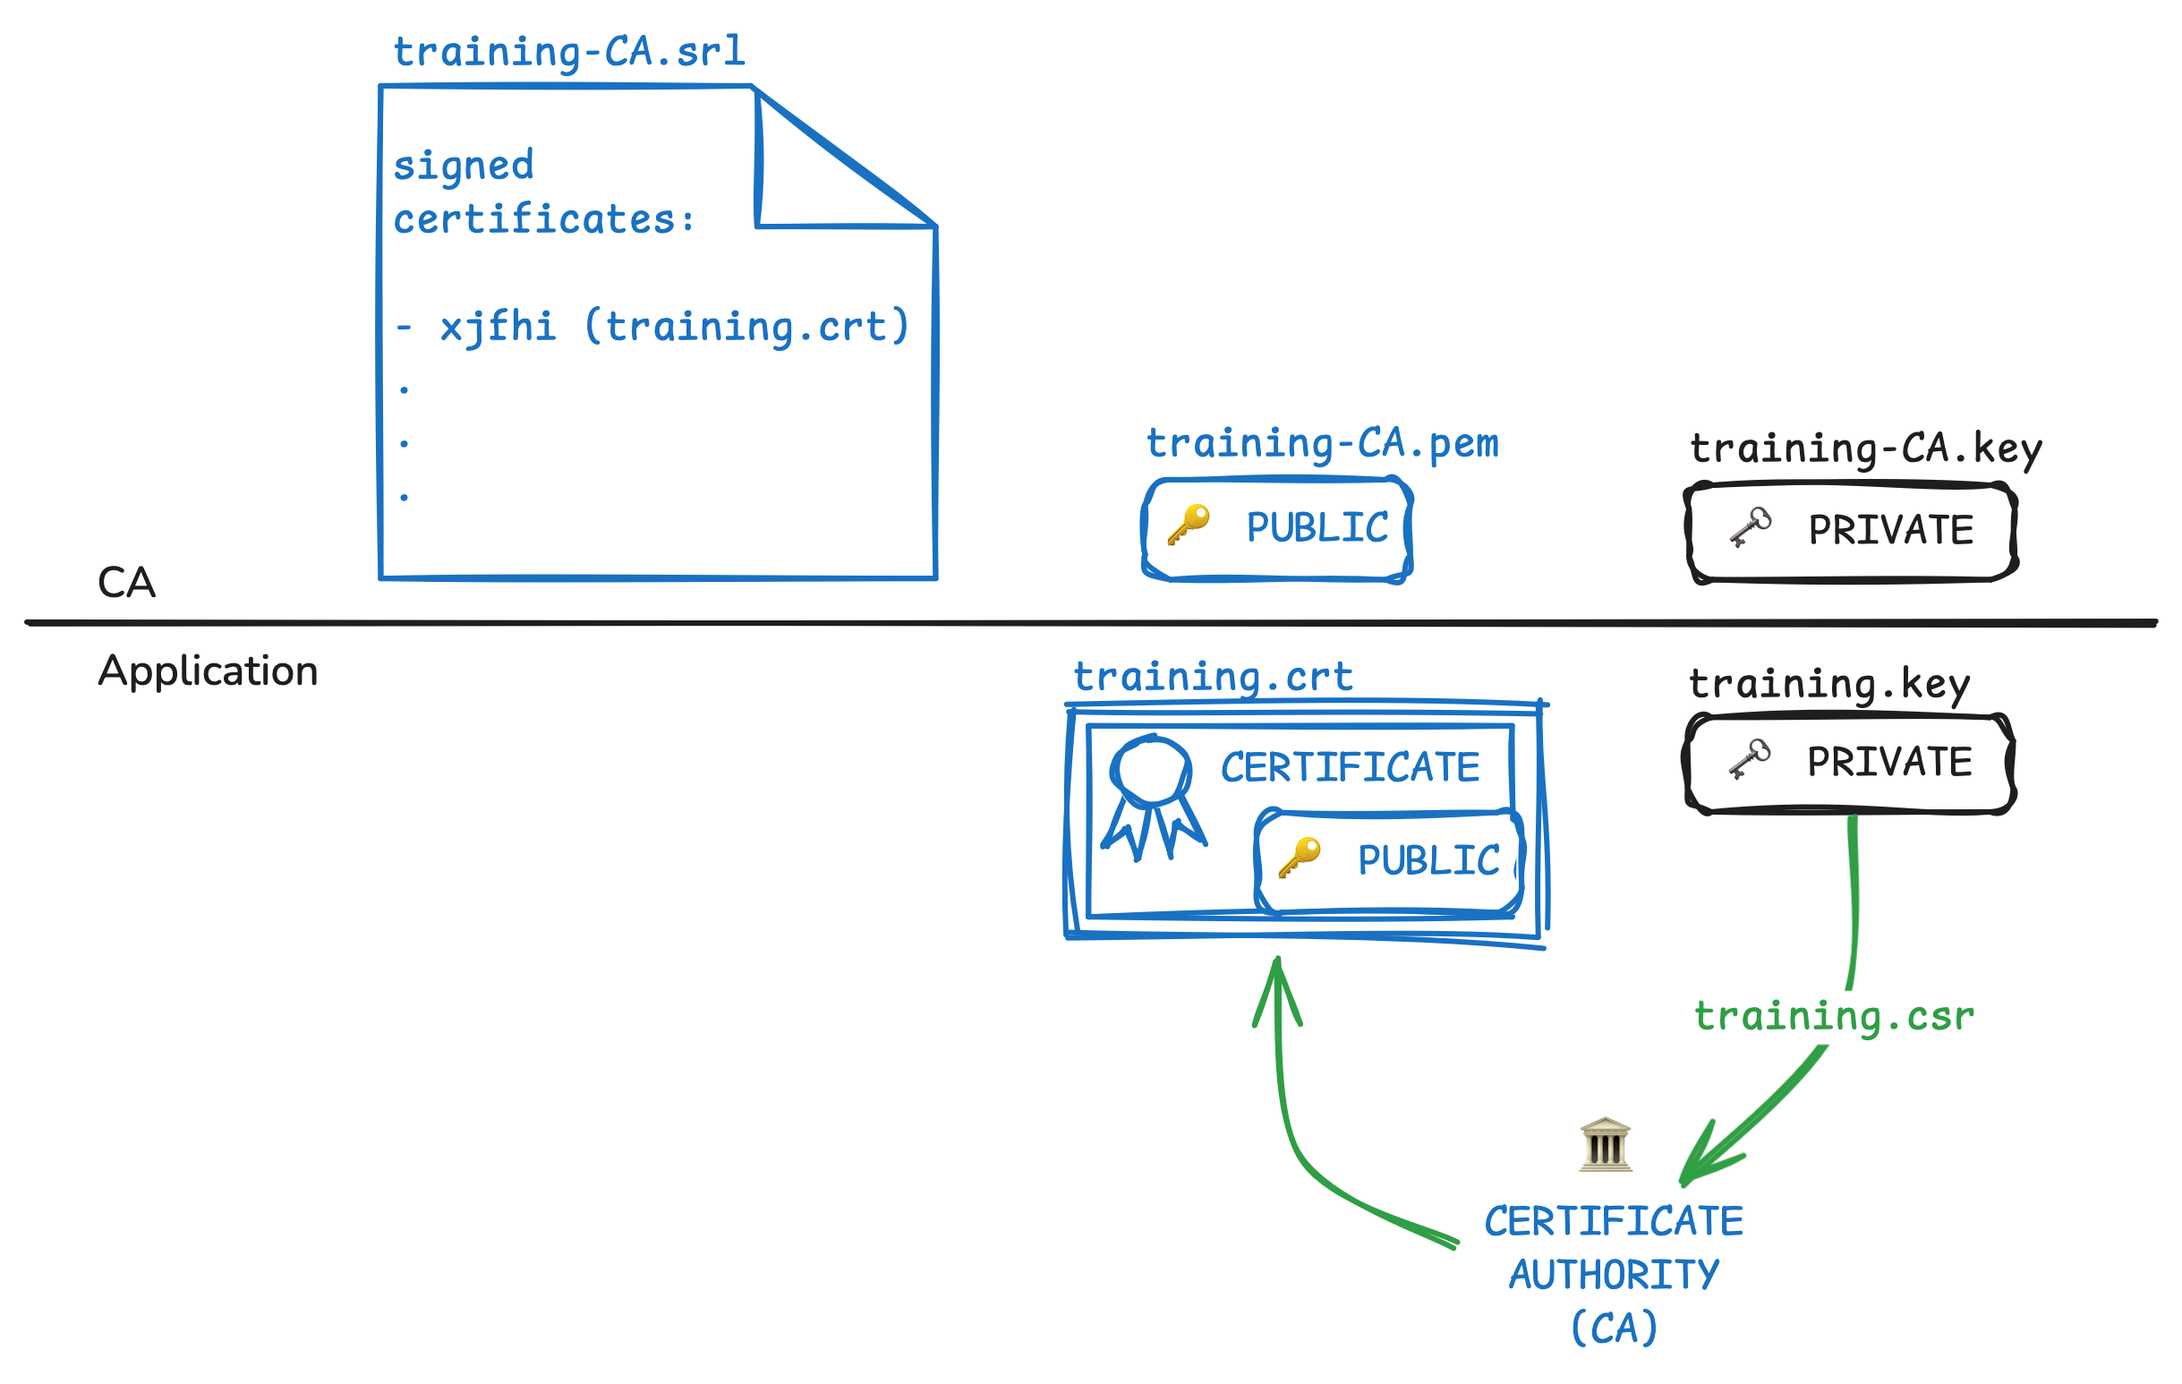
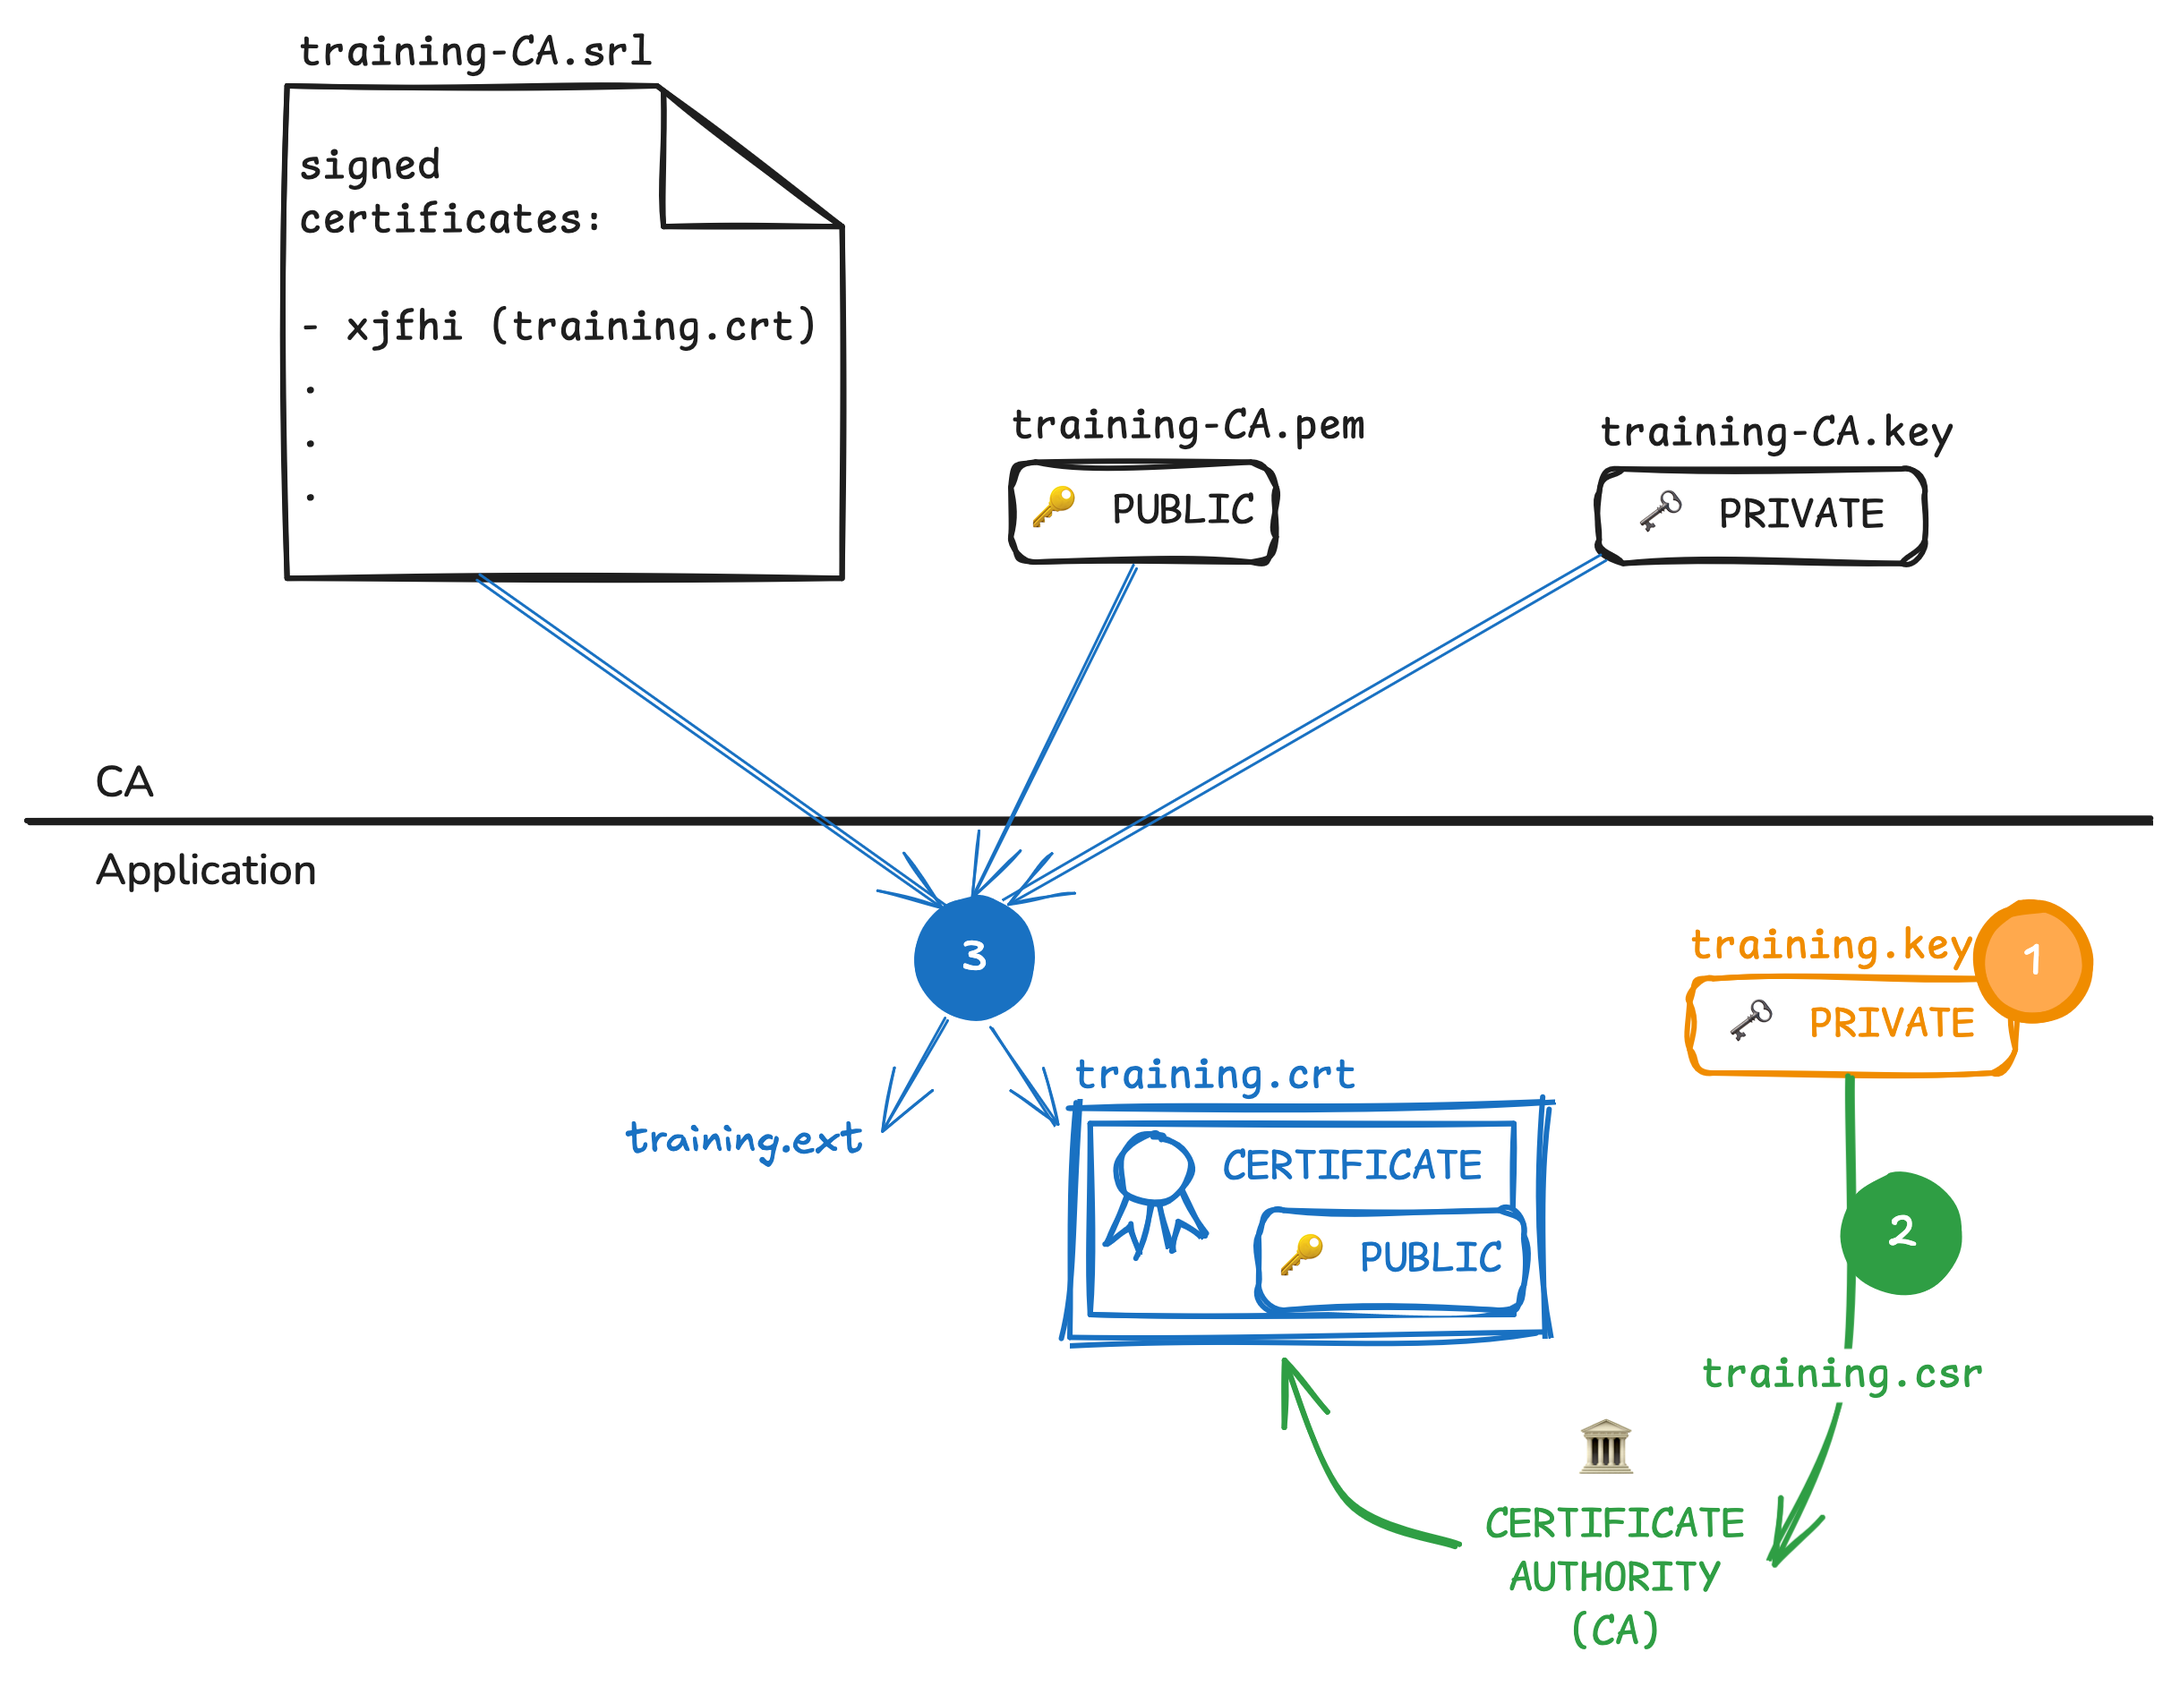
ch4

Changed region(s): [[0.0, 0.0, 0.9988, 0.9935], [0.6867, 0.3415, 0.7179, 0.3726]]

diff --git a/docs/cloud/openshift/do280/04_ext_passthrough.md b/docs/cloud/openshift/do280/04_ext_passthrough.md
@@ -1,3 +1,4 @@
+<img src="../imgs/ocp-passthrough.png" width="600" />
 
 <table>
     <tr>
@@ -75,7 +76,7 @@ Private Key for the Application that has the host `todo-https.apps.ocp4.example.
 Signed public Certificate for the Application
 
 ### `training.csr`
-is a Certificate Signing Request (CSR), an essential part of the process for obtaining a signed certificate. It contains:
+is a **Certificate Signing Request (CSR)**, an essential part of the process for obtaining a signed certificate. It contains:
 
 1. Information about the **entity** that is requesting the certificate, such as:
 
@@ -90,25 +91,27 @@ is a Certificate Signing Request (CSR), an essential part of the process for obt
 The `training-CA.srl` file is used by **OpenSSL** (or other certificate tools) to keep track of the serial numbers of certificates issued by a **Certificate Authority (CA)**. It ensures that every certificate signed by the CA has a unique serial number, which is required by the X.509 standard for certificates.
 
 
-!!! warning "*.pem VS *.crt"
+!!! warning "`*.pem` VS `*.crt`"
+    `*.pem` > `*.crt`
+    
     `*.pem` could contain more info types, while `*.crt` only contains certificate.
     
     ||PEM (.pem)|CRT (.crt)|
     |:-|:-|:-|
     |**Stands for**|Privacy-Enhanced Mail|Certificate|
     |**Format**|Base64-encoded text with header/footer|Can be in PEM (Base64) or DER (Binary)|
-    |**Content**|Typically contains only a public certificate.|Can contain certificates, private keys, certificate chains, or other cryptographic data.|
+    |**Content**|Can contain certificates, private keys, certificate chains, or other cryptographic data.|Typically contains only a single certificate.|
     |**Common Headers**|`-----BEGIN CERTIFICATE-----` (for a public certificate)<br/>`-----BEGIN PRIVATE KEY-----` (for a private key)<br/>`-----BEGIN CERTIFICATE REQUEST-----` (for a CSR)|`-----BEGIN CERTIFICATE-----`|
     |**Usage**|Used in OpenSSL, Apache, and many other applications.|Used by web servers, applications, and certificate authorities.|
 
 # 1. Generate TLS certificates for the application
 
-<img src="../imgs/generate_certifcate_passthrough.png" />
-
 ```bash
-# Generate a private key `training.key`
+# (1) 
+# Generate a Private Key `training.key`
 openssl genrsa -out training.key 4096
 
+# (2)
 # Generate the certificate signing request (CSR) `training.csr`:
 # - use the generated training.key`
 # - specify the hostname: todo-https.apps.ocp4.example.com
@@ -117,13 +120,17 @@ openssl req -new \
     -subj "/C=US/ST=North Carolina/L=Raleigh/O=Red Hat/\
     CN=todo-https.apps.ocp4.example.com"
 
+# (3)
 # Generate the signed certificate `training.crt`
-# - use the request: `training.csr`
-# - use the defined password: `passphrase.txt `
-# - use the CA info:
+# 
+# INPUT:
+# - the request: `training.csr`
+# - the defined password: `passphrase.txt `
+# - the CA info:
 #       -  public key of CA: `training-CA.pem`
 #       -  private key of CA: `training-CA.key`
-# Output:
+#       -  create a training-CA.srl if NOT exist
+# OUTPUT:
 #   - a signed Certificate: `training.crt`
 #   - a list for documenting purpose: `training.ext`
 openssl x509 -req -in training.csr \
@@ -132,9 +139,40 @@ openssl x509 -req -in training.csr \
     -out training.crt -days 1825 -sha256 -extfile training.ext
 ```
 
+<img src="../imgs/generate_certifcate_passthrough.png" width="600" />
+
+!!! note "`-subj`
+    The `-subj` flag in the `openssl req -new `command specifies the **distinguished name (DN)** directly in the command line, instead of interactively entering it.
+
+!!! note "Distinguished Name(DN)"
+    The **Distinguished Name (DN)** is a unique identifier for an entity (such as a `server`, `organization`, or `individual`) in a **digital certificate**. It is used in:
+
+    - X.509 certificates
+    - Certificate Signing Requests (CSR)
+    - LDAP (Lightweight Directory Access Protocol)
+
+    ⛰ **In this case, DN is the "ID Card" for the Certificate**
+
+
+    A DN consists of multiple **Attributes**:
+    
+    |Attribute|Meaning|Example|
+    |:-|:-|:-|
+    |`C`|Country|`C=US` (United States)|
+    |`ST`|State or Province|`ST=North Carolina`|
+    |`L`|Locality (City)|`L=Raleigh`|
+    |`O`|Organization|`O=Red Hat`|
+    |`OU`|Organizational Unit|`OU=Engineering`|
+    |`CN`|Common Name (usually a domain or hostname)|`CN=todo-https.apps.ocp4.example.com`|
+    |`emailAddress`|Email Address (optional)|`emailAddress=admin@example.com`|
+
+    
+
+
+
 # 2. Generate TLS secret with Certificate and Key
 - Certificate: `training.crt`
-- Key: `training.key`
+- Private Key: `training.key`
 
 ```bash
 oc create secret tls todo-certs \

diff --git a/docs/cloud/openshift/do280/01_manifest_kustimize.md b/docs/cloud/openshift/do280/01_manifest_kustimize.md
@@ -305,13 +305,31 @@ resources:
     |`commonLabels`|Add labels to all resources and selectors.|
     |`commonAnnotations`|Add annotations to all resources and selectors.|
 
+    ```bash
+    apiVersion: kustomize.config.k8s.io/v1beta1
+    kind: Kustomization
+
+    # common attributes / cross-cutting attributes
+    namespace: first-project
+    nameSuffix: -v2
+    namePrefix: chuying-
+
+    commonLabels:
+      owner: chuying
+        app: bingo
+    commonAnnotations:
+      env: test
+      oncallPager: 800-555-1212
+
+    ```
+
 
 ### Patch
 patch 是 `overlays` 用于修改 `base` 资源的具体方式，比如 `overlays/production/patch.yaml` 文件帮助实现了 `production` overlay。
 
 The patch mechanism has several important keys: `patch`, `target` and `path`.
 
-**Way 1: `patch` and `target`**
+#### Way 1: `patch` and `target`
 
 ```yaml
 # overlays/production/patch.yaml
@@ -323,7 +341,7 @@ namespace: test-env
 patches: 
 - patch: |-
     - op: replace             # operation
-      path: /metadata/name
+      path: /metadata/name    # '/' indicates DOC ROOT, here it means deployment.metatdata.name
       value: frontend-test
   target:                     # target
     kind: Deployment
@@ -340,8 +358,42 @@ resources:                    # used "base"
 commonLabels:                 # add label to all the resources
   env: test
 ```
+!!! note "`|-`"
+    is a **block scalar indicator** that handles multi-line content.
 
-**Way 2: `path`**
+    with `|-`:
+    ```bash
+    patches:
+      - patch: |-                   
+        - op: replace
+          path: /spec/replicas
+          value: 15
+    ```
+
+    without `|-`:
+    ```bash
+    patchs:
+      - patch: "- op: replace\n  path: /spec/replicas\n  value: 15"
+    ```
+
+!!! info "`|-` vs `|`"
+    ```bash
+    example: |-
+      Line 1
+      Line 2
+    ```
+    This results in `Line 1\nLine 2` (without a trailing newline).
+
+    ```bash
+    example: |
+      Line 1
+      Line 2
+    ```
+    This results in `Line 1\nLine 2\n` (with a trailing newline).
+
+
+
+#### Way 2: `patch` and `path`
 ```yaml
 # patch.yaml 
 apiVersion: apps/v1
@@ -370,6 +422,25 @@ resources:                  # used "base"
 - ../../base
 commonLabels:               # add label to all the resources
   env: prod
+```
+
+#### Way 3
+rebuild the resouce by using the same name. Kinda like a trick
+
+```bash
+# replicas.yaml
+kind: Deployment
+metadata:
+  name: frontend
+  namespace: default
+spec:
+  replicas: 2
+```
+
+```bash
+# kustomization.yaml
+patches:
+  - replicas.yaml
 ```
 
  

diff --git a/docs/cloud/openshift/do280/04_network_security.md b/docs/cloud/openshift/do280/04_network_security.md
@@ -45,35 +45,19 @@
     - [Redhat Blog: Self-Serviced End-to-end Encryption Approaches for Applications Deployed in OpenShift](https://www.redhat.com/en/blog/self-serviced-end-to-end-encryption-approaches-for-applications-deployed-in-openshift)
 
 
-### Edge
-<img src="../imgs/tls_edge.svg" />
+### Illustration
+<img src="../imgs/OCP-PKI-and-certificates-reverse-proxy.png" width="600" />
 
-### Passthrough
-<img src="../imgs/tls_passthrough.svg" />
-
-### Re-encryption
-
-!!! note "Create route with **Edge Termination**"
-    to create an encrypted edge route with a custom TLS certificate:
-
-    ```bash
-    oc create route edge \
-        --service api-frontend \
-        --hostname api.apps.acme.com \
-        --key api.key \
-        --cert api.crt
-    ```
-
-    when `--key` and `--cert` exist,  then the **RHOCP ingress operator** provides a certificate from the **internal Certificate Authority (CA)**
+1. **Clear text**: the connection is always unencrypted.
+2. **Edge**: the connection is encrypted from the client to the reverse proxy, but unencrypted from the reverse proxy to the pod.
+3. **Re-encrypt**: the encrypted connection is terminated at the reverse proxy, but then re-encrypted.
+4. **Passthrough**: the connection is not encrypted by the reverse proxy. The reverse proxy uses the Server Name Indication (SNI) field to determine to which backend to forward the connection, but in every other respects it acts as a Layer 4 load balancer.
 
 
-!!! info "Certificates provided from internal 'Certificate Authority'"
-    to view the **certificates** that the internal **CA** provides:
-    ```bash
-    oc get secrets/router-ca -n openshift-ingress-operator -o yaml
-    ```
 ## Example
 ### Create unencrypted route
+<img src="../imgs/ocp-clear.png" width="600" />
+
 ```bash
 oc expose svc/my_service
 ```

diff --git a/docs/cloud/openshift/do280/04_ext_edge.md b/docs/cloud/openshift/do280/04_ext_edge.md
@@ -1,3 +1,5 @@
+<img src="../imgs/ocp-edge.png" width="600" />
+
 Edge certificates encrypt the traffic between <ins>the client and the router</ins>, but leave the traffic between <ins>the router and the service</ins> unencrypted. 
 
 👉 OpenShift generates its own certificate that it signs with its CA.
@@ -9,7 +11,16 @@ oc create route edge todo-https \
 ```
 
 - `edge` indicates its encrypted
-- When the `--key` and `--cert` options are omitted, the RHOCP ingress operator creates the required certificate with its own **Certificate Authority (CA)**.
+- When the `--key api.key` and `--cert api.crt` options are omitted, the RHOCP ingress operator creates the required certificate with its own **Certificate Authority (CA)**.
+
+
+
+!!! info "Certificates provided from internal 'Certificate Authority'"
+    to view the **certificates** that the internal **CA** provides:
+    ```bash
+    oc get secrets/router-ca -n openshift-ingress-operator -o yaml
+    ```
+
 
 <img src="../imgs/network-ingress-edge-padlock.png" width=700 />
 <img src="../imgs/network-ingress-edge-more.png" width=700 />

diff --git a/docs/network/http.md b/docs/network/http.md
@@ -1,0 +1,19 @@
+[HTTP, HTTPS, CA, Certificate](https://www.youtube.com/watch?v=EnY6fSng3Ew&ab_channel=LaithAcademy)
+
+- insecure connection == HTTP(Hypertext Transfer Protocol)
+- secure connection == HTTPS(Hypertext Transfer Protocol Secure)
+
+!!! info "Data Transmission in Internet"
+    Q: How is data transmitted through the Internet？<br/>
+    A: Cleart Text (human-readable) -> Binary (machine-readable)<br/>
+    <img src="../imgs/conversion.png" width="400" />
+
+
+!!! info "protocol"
+    protocol = set of rules
+
+# HTTP
+Why is HTTP not secure?
+
+# HTTPS
+Why is HTTPS secure?

diff --git a/docs/network/index.md b/docs/network/index.md
@@ -87,3 +87,5 @@ default via 192.168.1.1 dev eth0
 3. 【C类】192.168.0.0 到 192.168.255.255：这是一个C类地址范围，包含约65536个IP地址。
     - 子网掩码通常为255.255.0.0（/16）。
     - 适用于小型网络，如家庭或小型办公室网络。
+
+
